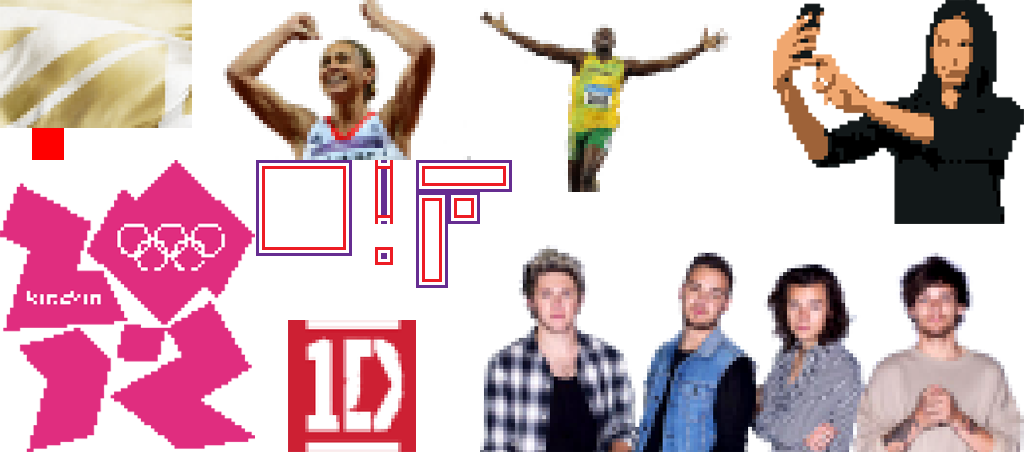
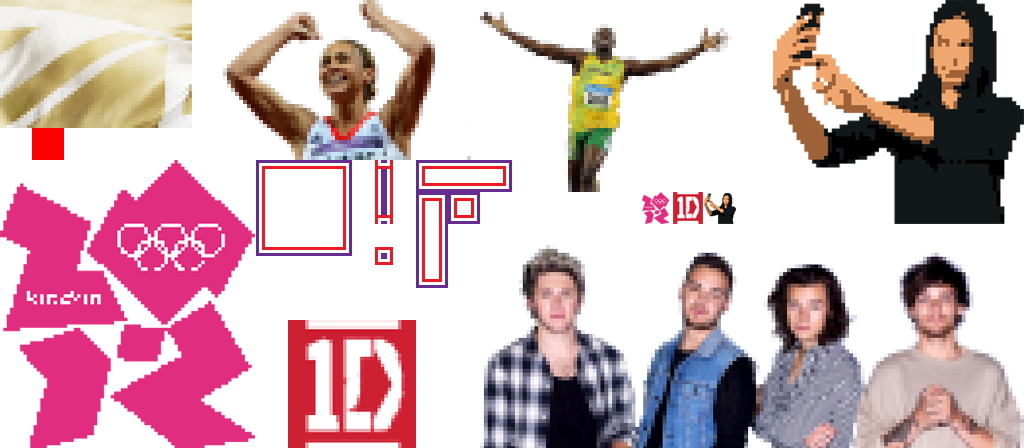
@ekynoxe - Adding correct sprites, tiles and collectible images for 2010s level. Also removing unused assets and updating order or sprite load.

diff --git a/queen-feature/src/scripts/state/preloader.js b/queen-feature/src/scripts/state/preloader.js
@@ -35,7 +35,6 @@ Game.State.Preloader.prototype = {
         this.game.load.image('sparkle1', 'assets/sprites/sparkle1.png');
         this.game.load.image('sparkle2', 'assets/sprites/sparkle2.png');
         this.game.load.image('sparkle3', 'assets/sprites/sparkle3.png');
-        this.game.load.image('transparent_32-160', 'assets/sprites/transparent_32-160.png');
         this.game.load.image('jewel', 'assets/sprites/jewel.png');
         this.game.load.image('jewel_grey', 'assets/sprites/jewel_grey.png');
 
@@ -66,14 +65,6 @@ Game.State.Preloader.prototype = {
         this.game.load.image('starwars', 'assets/sprites/70s_starwars.png');
         this.game.load.image('starwars_grey', 'assets/sprites/70s_starwars_grey.png');
 
-        // 00s assets
-        this.game.load.image('ipod', 'assets/sprites/2000s_ipod.png');
-        this.game.load.image('ipod_grey', 'assets/sprites/2000s_ipod_grey.png');
-        this.game.load.image('idol', 'assets/sprites/2000s_pop_idol.png');
-        this.game.load.image('idol_grey', 'assets/sprites/2000s_pop_idol_grey.png');
-        this.game.load.image('dome', 'assets/sprites/2000s_dome.png');
-        this.game.load.image('dome_grey', 'assets/sprites/2000s_dome_grey.png');
-
         // 80s assets
         this.game.load.image('parallax_1980s', 'assets/tiles/parallax_1980s.png');
         this.game.load.image('live_aid', 'assets/sprites/80s_live_aid.png');
@@ -92,6 +83,22 @@ Game.State.Preloader.prototype = {
         this.game.load.image('harry', 'assets/sprites/90s_harry.png');
         this.game.load.image('harry_grey', 'assets/sprites/90s_harry_grey.png');
 
+        // 2000s assets
+        this.game.load.image('ipod', 'assets/sprites/2000s_ipod.png');
+        this.game.load.image('ipod_grey', 'assets/sprites/2000s_ipod_grey.png');
+        this.game.load.image('idol', 'assets/sprites/2000s_pop_idol.png');
+        this.game.load.image('idol_grey', 'assets/sprites/2000s_pop_idol_grey.png');
+        this.game.load.image('dome', 'assets/sprites/2000s_dome.png');
+        this.game.load.image('dome_grey', 'assets/sprites/2000s_dome_grey.png');
+
+        // 2010s assets
+        this.game.load.image('olympics', 'assets/sprites/2010s_olympics.png');
+        this.game.load.image('olympics_grey', 'assets/sprites/2010s_olympics_grey.png');
+        this.game.load.image('selfie', 'assets/sprites/2010s_selfie.png');
+        this.game.load.image('selfie_grey', 'assets/sprites/2010s_selfie_grey.png');
+        this.game.load.image('1d', 'assets/sprites/2010s_1d.png');
+        this.game.load.image('1d_grey', 'assets/sprites/2010s_1d_grey.png');
+
         // In-game menu
         this.load.atlas('menu_buttons', 'assets/sprites/menu_buttons.png', 'assets/sprites/menu_buttons.json');
         this.game.load.image('pause', 'assets/sprites/pause.png');
@@ -105,14 +112,6 @@ Game.State.Preloader.prototype = {
         this.game.load.audio('timemachine', 'assets/audio/timemachine.mp3');
         this.game.load.audio('pop', 'assets/audio/pop.mp3');
         this.game.load.audio('jewel', 'assets/audio/jewel.mp3');
-
-
-
-
-        // Get some audio up in this shit.
-        // this.load.audio('doorOpen_1', 'res/audio/doorOpen_1.ogg');
-        // this.load.audio('doorClose_4', 'res/audio/doorClose_4.ogg');
-
 
         this.loadTileMaps();
     },

diff --git a/queen-feature/src/scripts/main.js b/queen-feature/src/scripts/main.js
@@ -111,7 +111,7 @@ Game.Map.MAPS = [
     'decade_80s',
     'decade_90s',
     'decade_00s',
-    'now'
+    'decade_now'
 ];
 
 Game.Levels = [
@@ -121,7 +121,7 @@ Game.Levels = [
     { text: '80', stateKey: 'decade_80s', collectibles: ['charles_diana', 'live_aid', 'mobile_phone']},
     { text: '90', stateKey: 'decade_90s' , collectibles: ['web', 'harry', 'spice']},
     { text: '00', stateKey: 'decade_00s', collectibles: ['dome', 'ipod', 'idol']},
-    { text: 'NOW', stateKey: 'now', collectibles: ['.', '.', '.']}
+    { text: 'NOW', stateKey: 'decade_now', collectibles: ['olympics', 'selfie', '1d']}
 ];
 
 Game.init = function() {
@@ -142,7 +142,7 @@ Game.init = function() {
     game.state.add('decade_80s', Game.State.Decade_80s);
     game.state.add('decade_90s', Game.State.Decade_90s);
     game.state.add('decade_00s', Game.State.Decade_00s);
-    game.state.add('now', Game.State.Now);
+    game.state.add('decade_now', Game.State.Decade_Now);
     game.state.add('end_screen', Game.State.EndScreen);
 
     this.Score.init(this.game);

diff --git a/queen-feature/src/scripts/state/decade_now.js b/queen-feature/src/scripts/state/decade_now.js
@@ -1,0 +1,21 @@
+/* global Game */
+'use strict';
+
+Game.State.Decade_Now = function() {};
+Game.State.Decade_Now.prototype = new Game.State.BaseState();
+Game.State.Decade_Now.prototype.levelKey = 'decade_now';
+Game.State.Decade_Now.prototype.nextLevelKey = 'decade_50s';
+
+Game.State.Decade_Now.prototype.setCollisions = function() {
+    this.levelModule.tilemap.setCollision(130);
+};
+
+Game.State.Decade_Now.prototype.createBackgroundLayers = function() {
+	this.levelModule.parallaxBackground = this.game.add.tileSprite(0, 0, this.game.width, this.game.height, "parallax_1950s");
+    this.levelModule.parallaxBackground.fixedToCamera = true;
+    this.levelModule.createLayer('background');
+};
+
+Game.State.Decade_Now.prototype.createForegroundLayers = function() {
+    this.levelModule.createLayer('foreground');
+};
